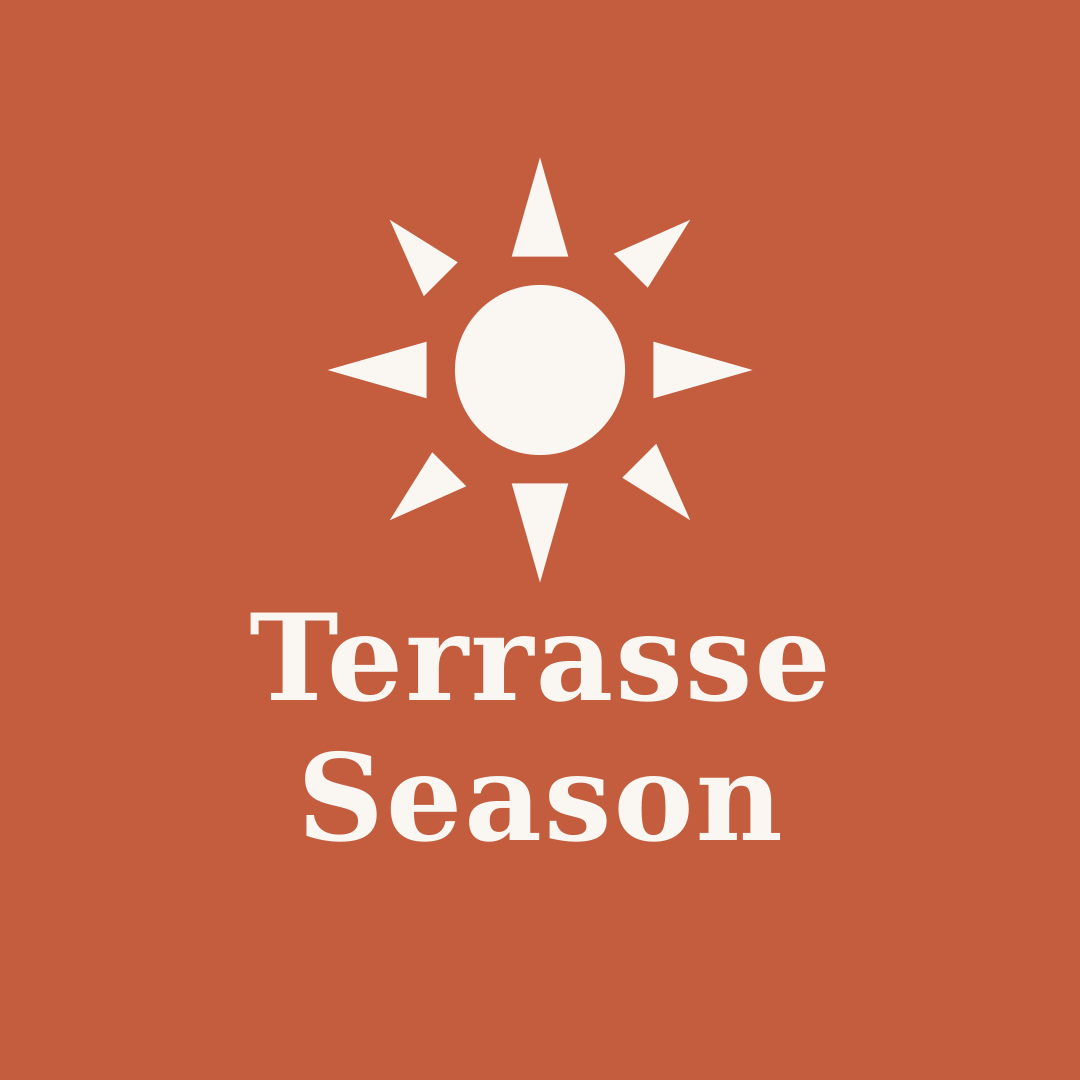
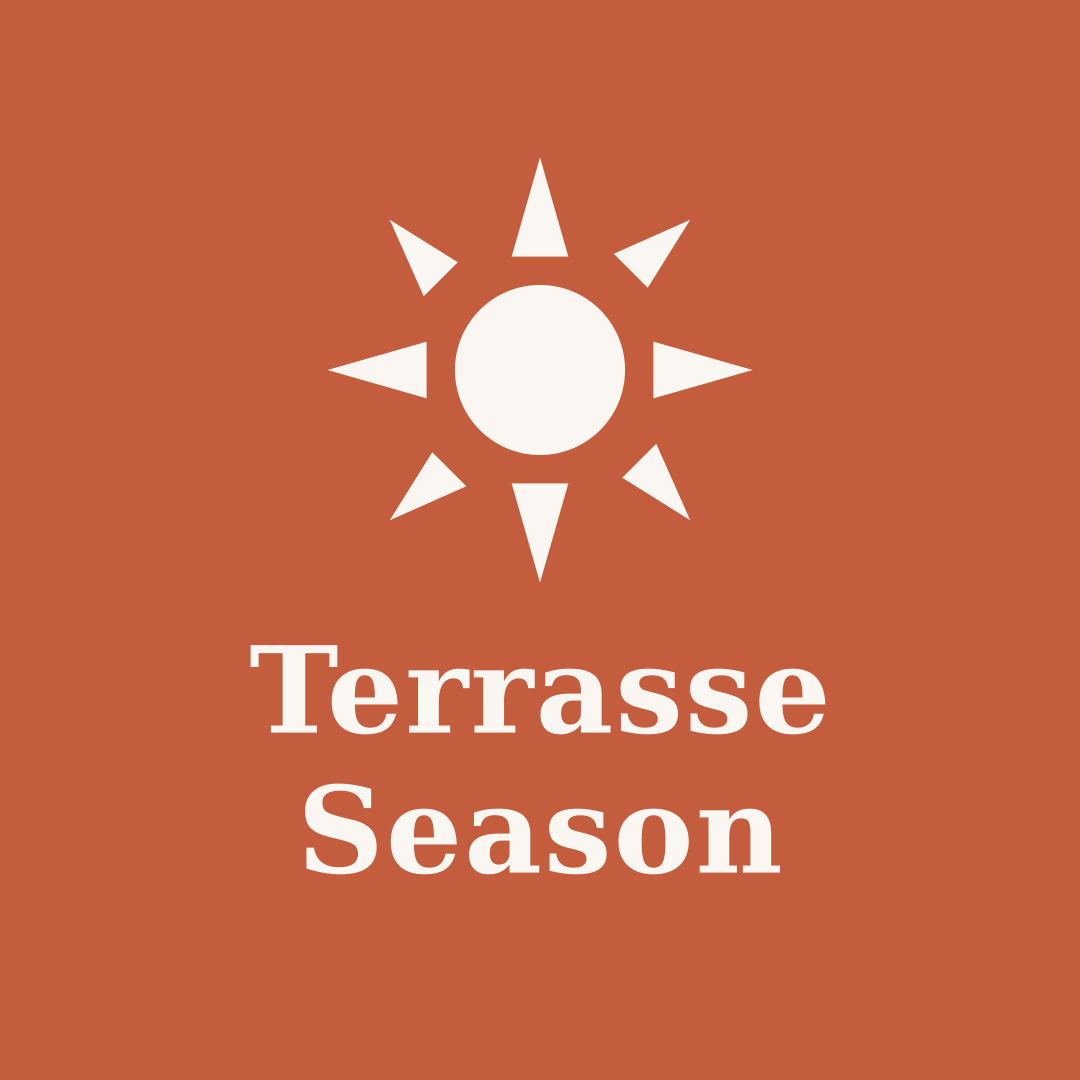
Increase gap between sun and text in two-line Instagram images
Bumps gap from ~117px to 150px below the bottom ray tip.

https://claude.ai/code/session_01QF8FJuXMCXb8xvZ3hxR1if

Changed region(s): [[0.2139, 0.55, 0.7639, 0.825]]

diff --git a/scripts/generate-icons.js b/scripts/generate-icons.js
@@ -89,7 +89,7 @@ function makeInstagramSvgTwoLines(bg, fg, sunFill = 0.42) {
   const sunCy = 370;
   const sunScale = (s * sunFill) / 32;
   const sunBottom = sunCy + 15 * sunScale;
-  const text1Y = Math.max(700, sunBottom + 80);
+  const text1Y = sunBottom + 150;
   const text2Y = text1Y + 140;
 
   const tx = (x) => cx + (x - 16) * sunScale;
